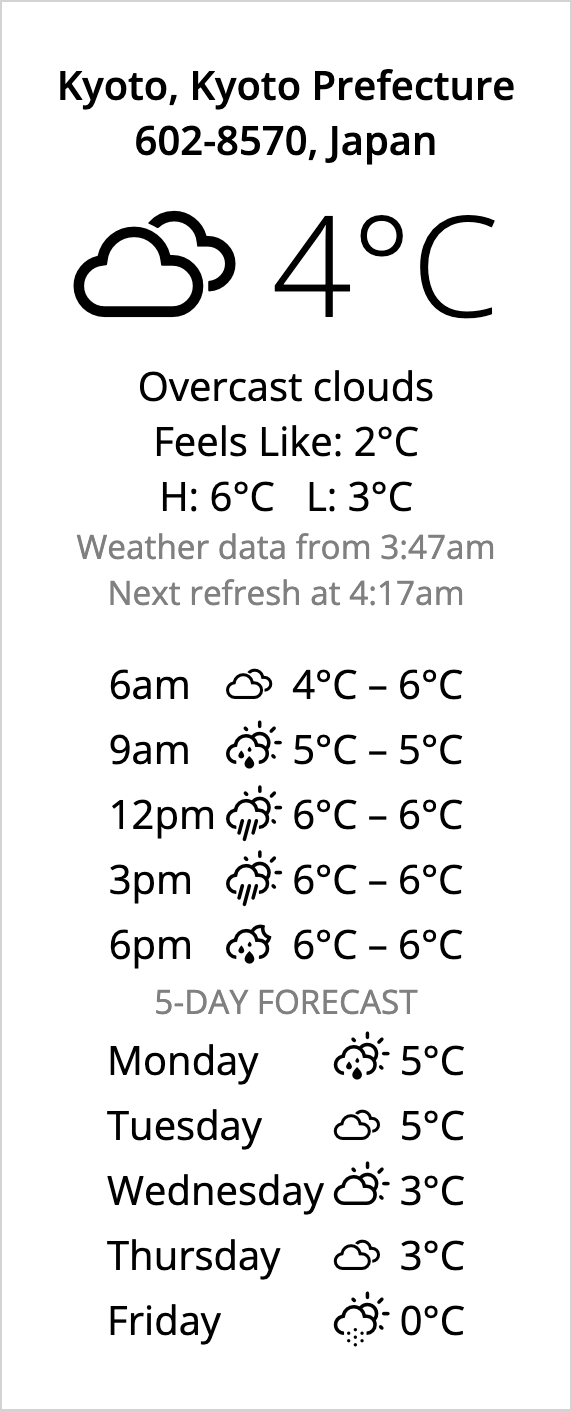
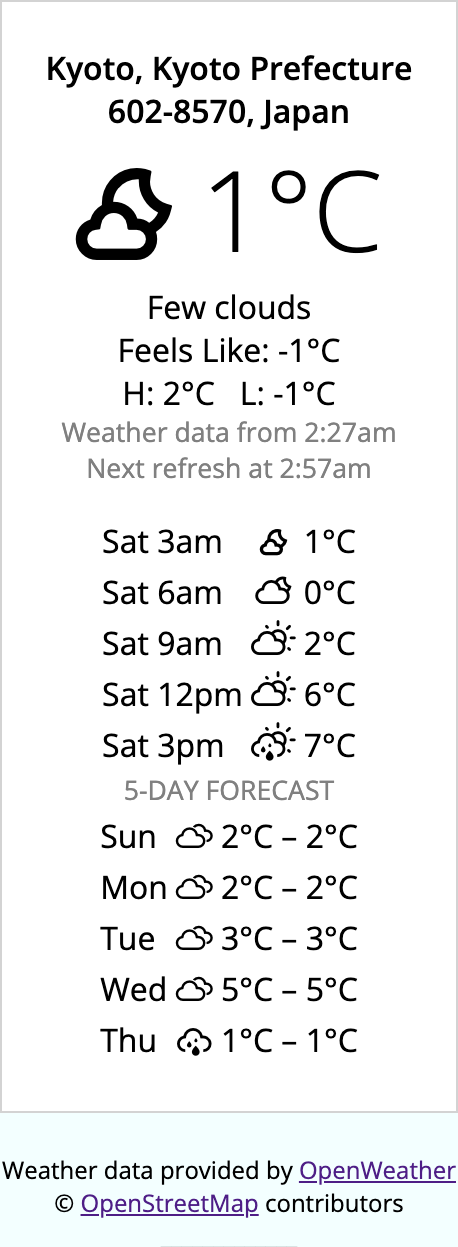
Update attribution display and links.

Changed region(s): [[0.0, 0.0305, 1.0, 1.0]]

diff --git a/apple-weather-api.md b/apple-weather-api.md
@@ -371,3 +371,9 @@ data["forecastDaily"]["days"].map {|o| [o["forecastStart"], o["forecastEnd"],
   "2025-01-14T13:00:00Z", "2025-01-15T01:00:00Z",  # 1/14, 1pm - 1/15, 1am
   "2025-01-15T01:00:00Z", "2025-01-15T13:00:00Z"]] # 1/15, 1am - 1/15, 1pm
 ```
+
+### Attribution
+
+WeatherKit REST API attribution logo when not using the Swift wrappers
+- https://developer.apple.com/weatherkit/#attribution-requirements
+- https://forums.developer.apple.com/forums/thread/708013

diff --git a/open-weather-api.md b/open-weather-api.md
@@ -84,3 +84,12 @@ open_weather_api.forecast(lat:39.3385, lon: -120.1729)
 ```
 
 Although OpenWeatherApi is old and a bit broken, it provides one forecast API that's free.
+
+### License and attribution
+
+For the Free plan, unclear is the attribution requirement is obligatory.
+
+- Text that reads 'Weather data provided by OpenWeather’
+- Hyperlink to 'https://openweathermap.org/'
+
+https://openweathermap.org/faq
